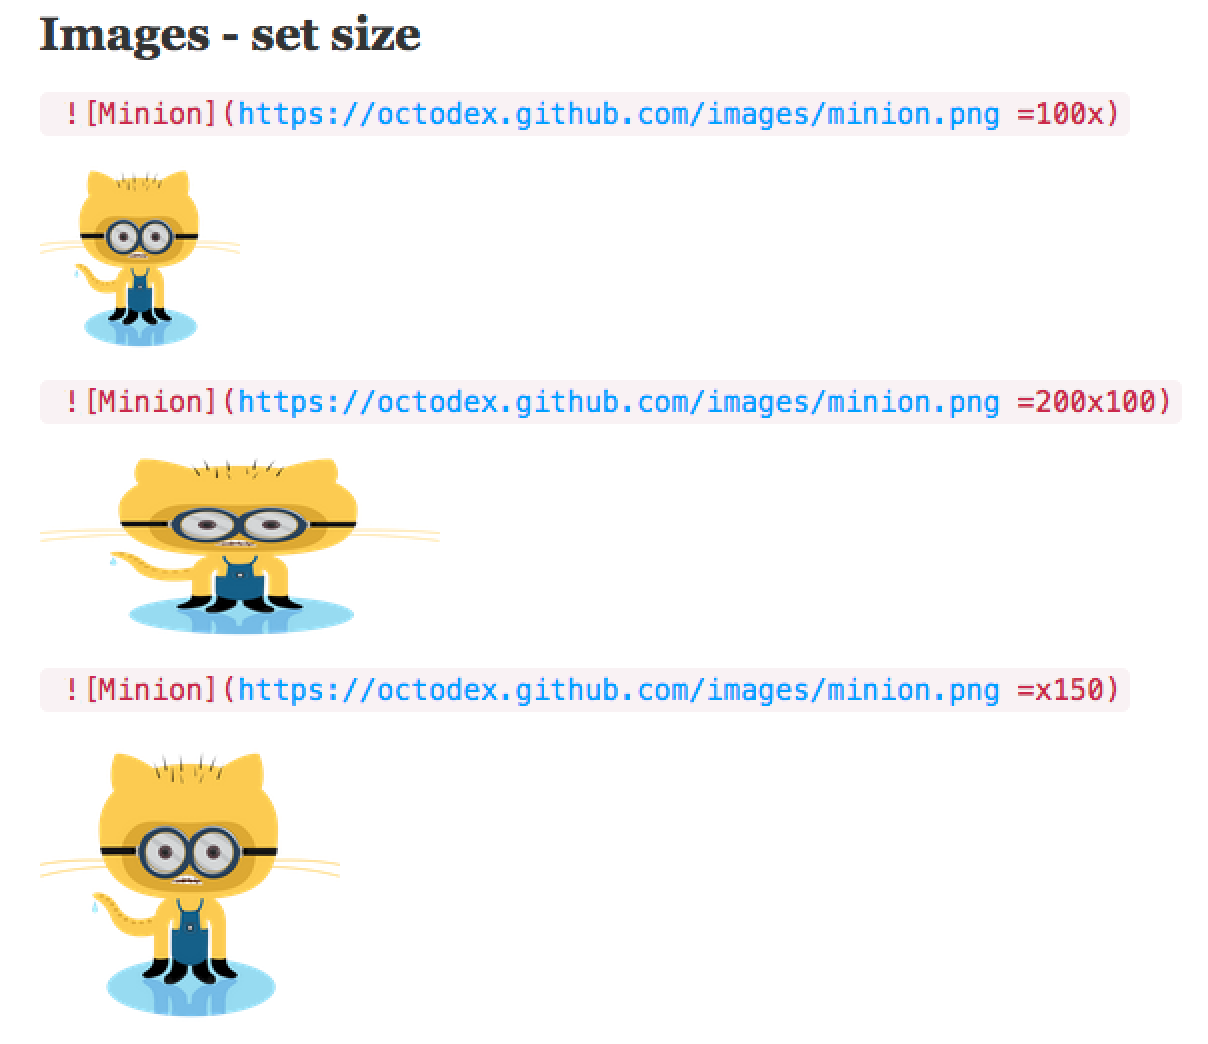
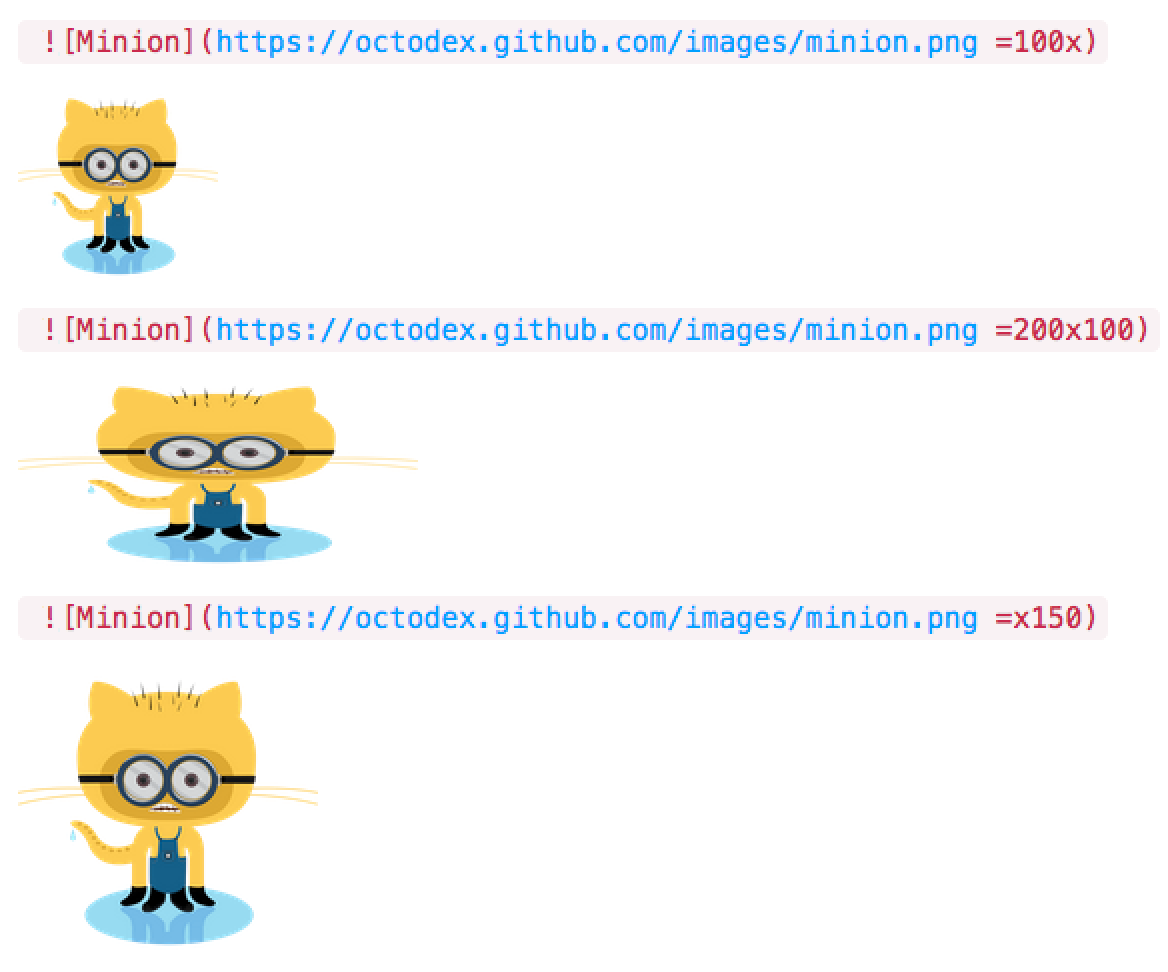
docs images: add info on not working syntax

Changed region(s): [[0.0, 0.0926, 0.9863, 0.9877], [0.0308, 0.0, 0.9555, 0.0617]]

diff --git a/docs/source/edit.rst b/docs/source/edit.rst
@@ -143,6 +143,8 @@ Type ``\ip`` (and only this in a line) to ask Geekbook to paste an image from yo
 Images: formatting
 ~~~~~~~~~~~~~~~~~~~~~~~~~~~~~~~~~~~~~~~~~~~~~~~
 
+.. warning:: The syntax ``=100x)`` does not work at the moment. Please use ``![#mini]`` (see below)
+             
 You can define width and height for your images as follows:
 
 .. image:: ../imgs/imgs_links_size.png
